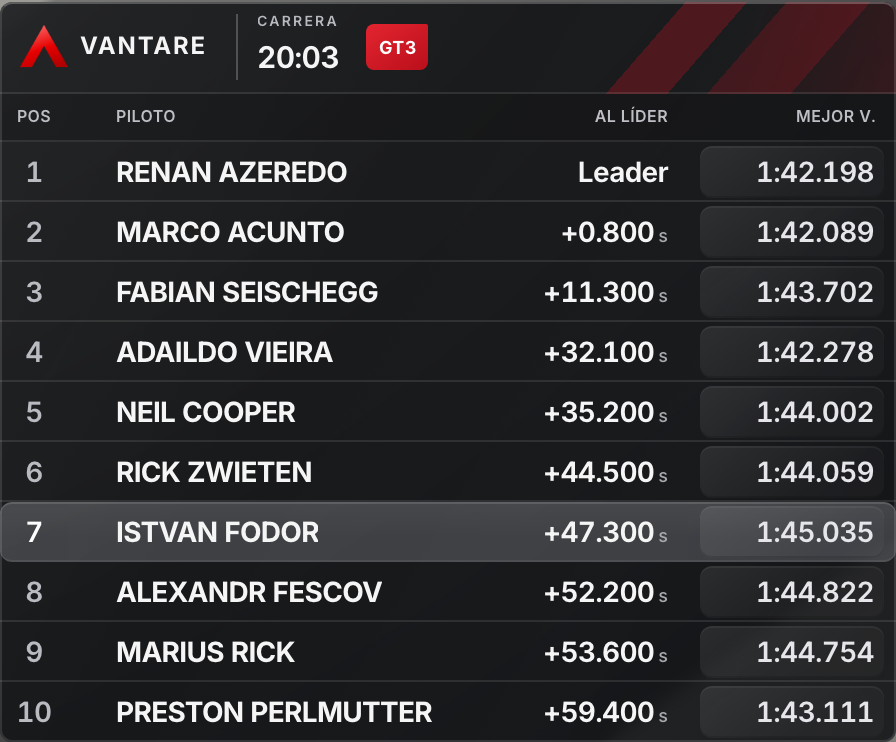
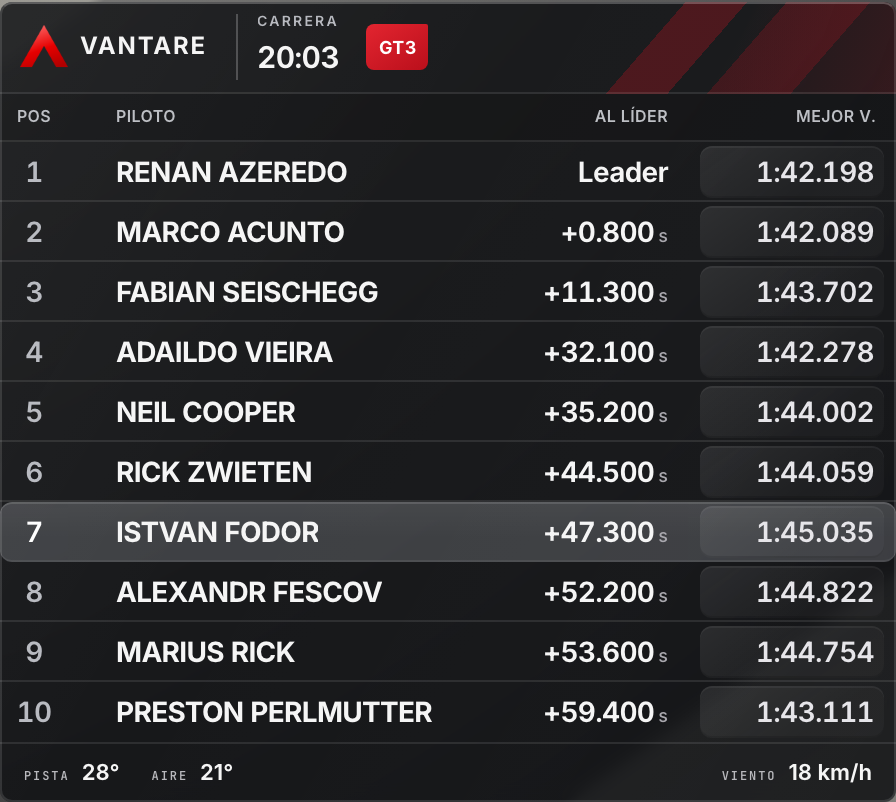
feat(overlays): ambient footer band for Functional standings (ISA-1120)
Optional bottom strip mirroring the session header — track temp, air temp
and wind — rendered only when the V2 frame actually delivers weather fields
(LMU supplies none today, so production stays unchanged). The standings
ViewModel carries the new optional texts; the study fixture feeds demo
values and the Workshop gives the scenario the extra 34 px it needs.

Generated with [Devin](https://devin.ai)

diff --git a/vantare-v2/frontend/src/overlay/design-systems/vantare-functional/labels.ts b/vantare-v2/frontend/src/overlay/design-systems/vantare-functional/labels.ts
@@ -6,6 +6,7 @@ const en = {
   lastLap: "LAST LAP", bestLap: "BEST LAP", pit: "PIT", tireCompound: "TYRE",
   you: "YOU", remaining: "REMAINING", race: "RACE", practice: "PRACTICE", qualifying: "QUALIFYING",
   stale: "DATA OUT OF DATE", disconnected: "DISCONNECTED", missing: "NO DATA", error: "DATA ERROR",
+  trackTemp: "TRACK", ambientTemp: "AIR", wind: "WIND",
 };
 
 export const functionalLabels: Record<Locale, typeof en> = {
@@ -13,13 +14,16 @@ export const functionalLabels: Record<Locale, typeof en> = {
   es: { ...en, driverName: "PILOTO", vehicleClass: "CLASE", gap: "AL LÍDER", paceGap: "AL MEJOR",
     interval: "INTERVALO", currentLap: "VUELTA", lastLap: "ÚLT. VUELTA", bestLap: "MEJOR V.",
     tireCompound: "NEUM.", you: "TÚ", remaining: "RESTANTE", race: "CARRERA", practice: "PRÁCTICA",
-    qualifying: "CLASIFICACIÓN", stale: "DATOS ANTIGUOS", disconnected: "DESCONECTADO", missing: "SIN DATOS", error: "ERROR DE DATOS" },
+    qualifying: "CLASIFICACIÓN", stale: "DATOS ANTIGUOS", disconnected: "DESCONECTADO", missing: "SIN DATOS", error: "ERROR DE DATOS",
+    trackTemp: "PISTA", ambientTemp: "AIRE", wind: "VIENTO" },
   pt: { ...en, driverName: "PILOTO", vehicleClass: "CLASSE", gap: "AO LÍDER", paceGap: "AO MELHOR",
     interval: "INTERVALO", currentLap: "VOLTA", lastLap: "ÚLT. VOLTA", bestLap: "MELHOR V.",
     tireCompound: "PNEU", you: "VOCÊ", remaining: "RESTANTE", race: "CORRIDA", practice: "TREINO",
-    qualifying: "CLASSIFICAÇÃO", stale: "DADOS ANTIGOS", disconnected: "DESCONECTADO", missing: "SEM DADOS", error: "ERRO DE DADOS" },
+    qualifying: "CLASSIFICAÇÃO", stale: "DADOS ANTIGOS", disconnected: "DESCONECTADO", missing: "SEM DADOS", error: "ERRO DE DADOS",
+    trackTemp: "PISTA", ambientTemp: "AR", wind: "VENTO" },
   it: { ...en, driverName: "PILOTA", vehicleClass: "CLASSE", gap: "DAL LEADER", paceGap: "DAL MIGLIORE",
     interval: "INTERVALLO", currentLap: "GIRO", lastLap: "ULT. GIRO", bestLap: "MIGLIORE",
     tireCompound: "GOMMA", you: "TU", remaining: "RIMANENTE", race: "GARA", practice: "PROVE",
-    qualifying: "QUALIFICHE", stale: "DATI NON AGGIORNATI", disconnected: "DISCONNESSO", missing: "NESSUN DATO", error: "ERRORE DATI" },
+    qualifying: "QUALIFICHE", stale: "DATI NON AGGIORNATI", disconnected: "DISCONNESSO", missing: "NESSUN DATO", error: "ERRORE DATI",
+    trackTemp: "PISTA", ambientTemp: "ARIA", wind: "VENTO" },
 };

diff --git a/vantare-v2/frontend/src/overlay/widget-types/standings/standings-view-model-v2.ts b/vantare-v2/frontend/src/overlay/widget-types/standings/standings-view-model-v2.ts
@@ -61,6 +61,7 @@ export function buildStandingsViewModelV2(
   const paceSession = phase === "practice" || phase === "qualifying";
   const sessionBestLap = paceSession ? fastestLap(scoped) : undefined;
   const limited = scoped.slice(0, content.rowCount ?? 20);
+  const weather = frame.weather;
 
   return withStandingsMotionIdentity({
     type: "standings",
@@ -69,6 +70,9 @@ export function buildStandingsViewModelV2(
     activeClass,
     sessionLabel: displayedText(frame.session.phase)?.toUpperCase() ?? PLACEHOLDER,
     remainingText: formatRemainingTime(displayedNumber(frame.session.remaining)),
+    ambientTempText: formatTemp(displayedNumber(weather.ambientC)),
+    trackTempText: formatTemp(displayedNumber(weather.trackC)),
+    windText: formatWind(displayedNumber(weather.windKph)),
     columns,
     rows: limited.map((row, index) => buildRow(row, index, playerId, paceSession, sessionBestLap)),
   }, `${frame.sessionId}:${frame.epoch}`, frame.sequence);
@@ -82,6 +86,9 @@ export function standingsDisplayedValues(
     sessionLabel: model.sessionLabel,
     activeClass: model.activeClass,
     remainingText: model.remainingText,
+    ambientTemp: model.ambientTempText ?? PLACEHOLDER,
+    trackTemp: model.trackTempText ?? PLACEHOLDER,
+    wind: model.windText ?? PLACEHOLDER,
     rowCount: String(model.rows.length),
     rows: model.rows
       .map((row) => [
@@ -165,6 +172,14 @@ function formatGap(row: OverlayStandingRowV2, index: number): string {
 function formatLapTime(seconds: number | undefined): string {
   if (seconds === undefined || seconds <= 0 || !Number.isFinite(seconds)) return PLACEHOLDER;
   return `${Math.floor(seconds / 60)}:${(seconds % 60).toFixed(3).padStart(6, "0")}`;
+}
+
+function formatTemp(value: number | undefined): string | undefined {
+  return value === undefined ? undefined : `${Math.round(value)}°`;
+}
+
+function formatWind(value: number | undefined): string | undefined {
+  return value === undefined ? undefined : `${Math.round(value)} km/h`;
 }
 
 function resolveActiveClass(

diff --git a/vantare-v2/frontend/src/overlay/design-systems/vantare-functional/StandingsFunctional.tsx b/vantare-v2/frontend/src/overlay/design-systems/vantare-functional/StandingsFunctional.tsx
@@ -15,6 +15,7 @@ export function StandingsFunctional({ model, settings }: WidgetRendererProps<Sta
   const columns = model.columns;
   const identitySpan = resolveFunctionalIdentitySpan(columns);
   const hasHeader = settings.showSessionHeader !== false;
+  const hasFooter = Boolean(model.trackTempText || model.ambientTempText || model.windText);
   const unavailable = model.status === "disconnected" || model.status === "missing" || model.status === "error";
   const statusText = model.status !== "ready" ? labels[model.status] : model.rows.length === 0 ? labels.missing : undefined;
   const labelFor = (metric: string) => metric === "gap" && paceSession ? labels.paceGap : labels[metric as keyof typeof labels] ?? metric;
@@ -52,6 +53,13 @@ export function StandingsFunctional({ model, settings }: WidgetRendererProps<Sta
             </tr>
           ))}</tbody>
         </table>
+      )}
+      {hasFooter && !unavailable && (
+        <div className="vf-footer" data-session-footer>
+          {model.trackTempText ? <span className="vf-footer-item">{labels.trackTemp} <b>{model.trackTempText}</b></span> : null}
+          {model.ambientTempText ? <span className="vf-footer-item">{labels.ambientTemp} <b>{model.ambientTempText}</b></span> : null}
+          {model.windText ? <span className="vf-footer-item vf-footer-item--end">{labels.wind} <b>{model.windText}</b></span> : null}
+        </div>
       )}
     </section>
   );

diff --git a/vantare-v2/frontend/src/overlay/design-systems/vantare-functional/tokens.css b/vantare-v2/frontend/src/overlay/design-systems/vantare-functional/tokens.css
@@ -59,6 +59,13 @@
 .vf-pit { display: inline-block; padding: 3px 4px; border-radius: 2px; background: #d9b955; color: #151612; font-size: 9px; line-height: 1; font-weight: 800; letter-spacing: .015em; }
 .vf-status, .vf-detail { margin: 0; padding: 10px 12px; white-space: normal; overflow-wrap: anywhere; font-size: 12px; }
 .vf-status { color: #e2c568; font-weight: 700; }
+
+/* Banda inferior opcional (datos ambientales): espejo de la cabecera de
+   sesión. Solo se renderiza cuando la fuente entrega esos campos. */
+.vf-footer { position: relative; z-index: 1; display: flex; align-items: center; gap: 16px; height: 30px; padding: 0 12px; border-top: 1px solid var(--vf-line); }
+.vf-footer-item { display: flex; align-items: baseline; gap: 6px; font: 600 6px/1 "JetBrains Mono", ui-monospace, monospace; letter-spacing: .16em; text-transform: uppercase; color: var(--vf-muted); }
+.vf-footer-item b { font: 650 11px/1 Inter, Arial, sans-serif; letter-spacing: 0; text-transform: none; color: var(--vf-ink); }
+.vf-footer-item--end { margin-left: auto; }
 .vf-detail { color: var(--vf-muted); }
 .vf-session-type[role="status"] { color: #e2c568; letter-spacing: 0; }
 .vf-standings[data-status="stale"] .vf-clock { color: var(--vf-muted); }

diff --git a/vantare-v2/frontend/src/overlay/design-systems/vantare-functional/StandingsFunctional.test.tsx b/vantare-v2/frontend/src/overlay/design-systems/vantare-functional/StandingsFunctional.test.tsx
@@ -31,6 +31,17 @@ describe("Functional Standings", () => {
     expect(container.querySelector('tr[data-player="true"]')).not.toBeNull();
   });
 
+  it("renders the ambient footer band only when the model carries those fields", () => {
+    const bare = render(<StandingsFunctional model={model} settings={{}} renderMode="harness" />);
+    expect(bare.container.querySelector(".vf-footer")).toBeNull();
+    bare.unmount();
+    const withWeather = { ...model, trackTempText: "28°", ambientTempText: "21°", windText: "18 km/h" };
+    const { container } = render(<StandingsFunctional model={withWeather} settings={{}} renderMode="harness" />);
+    const footer = container.querySelector(".vf-footer");
+    expect(footer?.textContent).toContain("28°");
+    expect(footer?.textContent).toContain("18 km/h");
+  });
+
   it("preserves disabled columns, custom order and configured name without inventing identifiers", () => {
     const custom = { ...model, columns: [model.columns[3]!, model.columns[1]!], rows: [{ ...model.rows[0]!, configuredDriverName: "M. Costa" }] };
     const { container } = render(<StandingsFunctional model={custom} settings={{}} renderMode="harness" />);

diff --git a/vantare-v2/frontend/src/overlay/authoring/OverlayWorkshopDevRoute.tsx b/vantare-v2/frontend/src/overlay/authoring/OverlayWorkshopDevRoute.tsx
@@ -336,7 +336,9 @@ function OverlayWorkshopPage({ initialQuery, profileId }: { initialQuery: Overla
     } },
   } : sourcePrepared;
   const studySize = isFunctionalStudy && displayPrepared ? resolveStandingsMinimumSize(displayPrepared.widget) : undefined;
-  const displayQuery = studySize ? { ...parsed, width: studySize.width, height: studySize.height, scale: 1 } : parsed;
+  // La banda ambiental opcional (~30 px) no entra en el mínimo del contenido:
+  // el estudio la añade a la altura para que no recorte la última fila.
+  const displayQuery = studySize ? { ...parsed, width: studySize.width, height: studySize.height === undefined ? undefined : studySize.height + 34, scale: 1 } : parsed;
 
   return (
     <main className={`overlay-workshop${isFunctionalStudy ? " functional-study" : ""}`} data-overlay-workshop-page data-study-style={parsed.studyStyle}>

diff --git a/vantare-v2/frontend/src/overlay/authoring/fixtures/authoring-v2-workshop-frame.ts b/vantare-v2/frontend/src/overlay/authoring/fixtures/authoring-v2-workshop-frame.ts
@@ -430,7 +430,11 @@ export function buildWorkshopFrameV2(scenario: WorkshopV2Scenario): WidgetRuntim
         pit: index === 5 ? "pit" : "track",
       }));
       frame = { ...frame, standings: rows, player: { ...frame.player, id: rows[6]!.id },
-        session: { ...frame.session, remaining: qualityValue(20 * 60 + 3, quality) } };
+        session: { ...frame.session, remaining: qualityValue(20 * 60 + 3, quality) },
+        weather: { ...frame.weather,
+          ambientC: qualityValue(21, quality), trackC: qualityValue(28, quality),
+          windKph: qualityValue(18, quality), windDir: qualityValue("NW", quality),
+          rainPercent: qualityValue(0, quality), wetnessPct: qualityValue(0, quality) } };
       break;
     }
     case "standings-stress60":

diff --git a/vantare-v2/frontend/src/overlay/widget-types/standings/standings-view-model.ts b/vantare-v2/frontend/src/overlay/widget-types/standings/standings-view-model.ts
@@ -31,6 +31,11 @@ export type StandingsViewModel = WidgetViewModelBase & {
   sessionLabel: string;
   remainingText: string;
   lapText?: string;
+  /** Datos ambientales opcionales para la banda inferior; solo existen cuando
+   *  la fuente V2 los entrega (hoy LMU no los soporta — declared gap). */
+  ambientTempText?: string;
+  trackTempText?: string;
+  windText?: string;
   columns: readonly WidgetColumnV3[];
   rows: readonly StandingsRowViewModel[];
   /** Productive stream identity used only to discard ephemeral motion state. */
